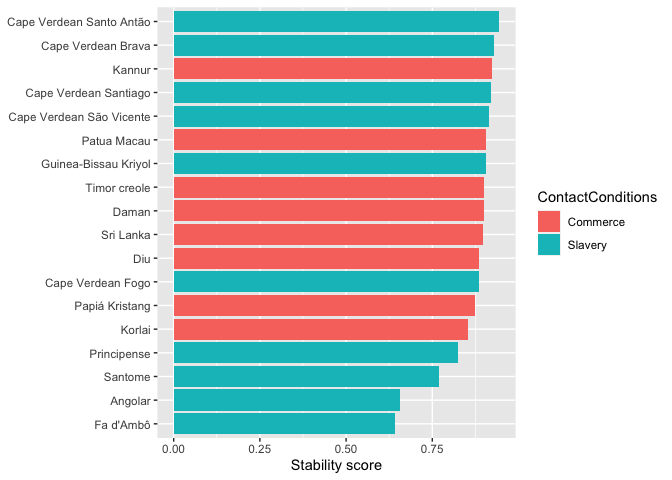
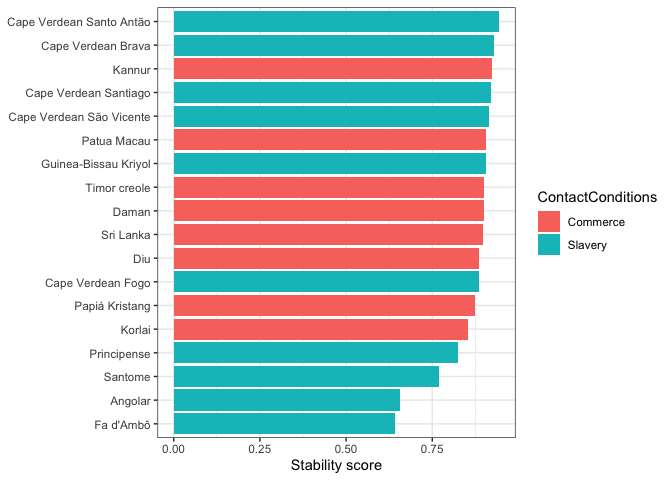
fix images

Changed region(s): [[0.2188, 0.0, 0.7812, 0.9375]]

diff --git a/README.md b/README.md
@@ -31,6 +31,8 @@ In this report, we use R (R Core Team 2021) and the following packages
 library(tidyverse)
 library(knitr)
 library(ggrepel)
+
+theme_set(theme_bw())
 ```
 
 Load the dataset.
@@ -543,7 +545,6 @@ consonant_stability_class <- cbind(consonant_stability, class)
 Next, we plot the results.
 
 ``` r
-# TODO: fix the class "dots"
 ggplot(consonant_stability, aes(y = mmanner, x = mplace, label = LexifierPhoneme, color=class)) +
   geom_point(position= "dodge") + 
   geom_text(aes(label=LexifierPhoneme), hjust=3, vjust=0) +
@@ -554,6 +555,16 @@ ggplot(consonant_stability, aes(y = mmanner, x = mplace, label = LexifierPhoneme
     ## Warning: Width not defined. Set with `position_dodge(width = ?)`
 
 ![](README_files/figure-gfm/unnamed-chunk-25-1.png)<!-- -->
+
+``` r
+ggplot(consonant_stability, aes(y = mmanner, x = mplace, fill=class)) +
+  geom_point(position= "dodge", aes(color=class)) + 
+  geom_text_repel(aes(label = LexifierPhoneme))
+```
+
+    ## Warning: Width not defined. Set with `position_dodge(width = ?)`
+
+![](README_files/figure-gfm/unnamed-chunk-25-2.png)<!-- -->
 
 Here is an alternative view for the global results.
 
@@ -902,7 +913,7 @@ summary(m)
     ## F-statistic: 1.723 on 1 and 16 DF,  p-value: 0.2079
 
 ``` r
-ggplot(creole_stability, aes(x = ContactConditions, y = MeanStability, color = ContactConditions)) +
+ggplot(creole_stability, aes(x = ContactConditions, y = MeanStability, fill = ContactConditions)) +
   geom_smooth(method = "lm") +
   geom_violin()
 ```
